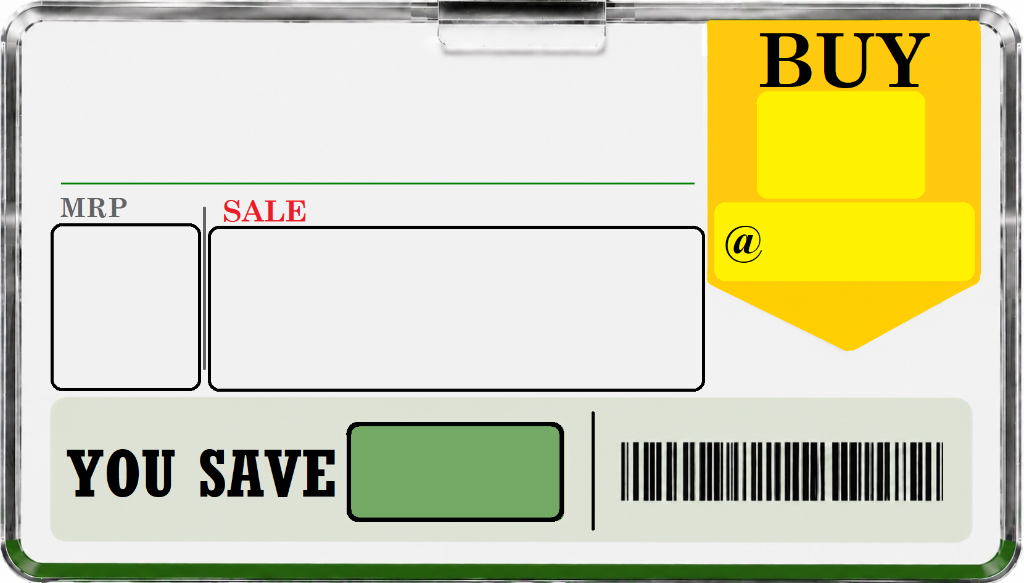
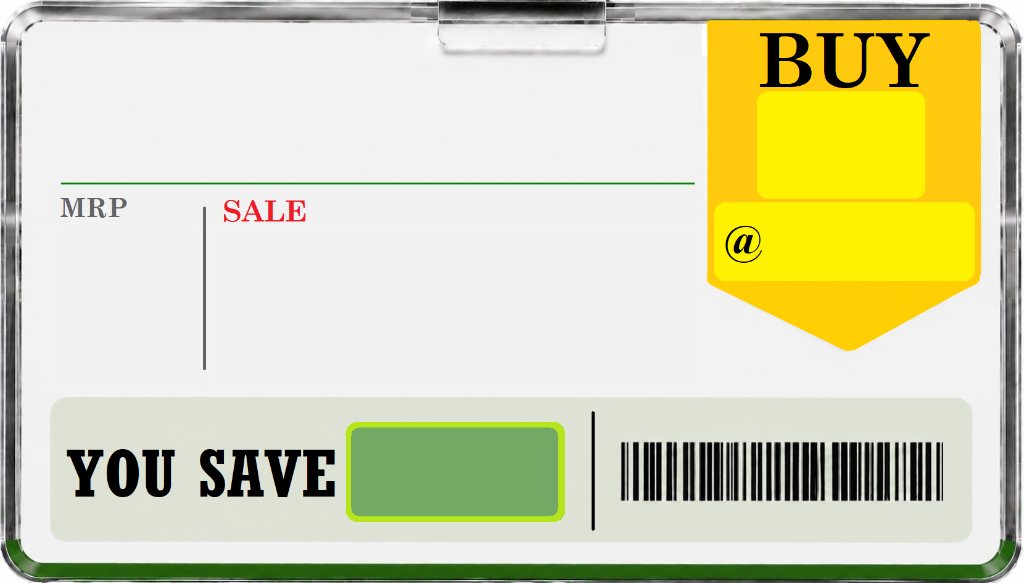
Update: Replace template PNG graphics with latest user uploaded template artwork (Build 202608151416)

Changed region(s): [[0.0312, 0.3705, 0.6875, 0.6792], [0.3125, 0.7101, 0.5625, 0.8954]]

diff --git a/frontend/customer/js/build-env.js b/frontend/customer/js/build-env.js
@@ -1,10 +1,10 @@
 // Automatically generated build metadata
 window.APP_BUILD = {
   version: "0.1.0",
-  build: "202608151315",
-  commit: "2403413",
+  build: "202608151416",
+  commit: "fed7ad0",
   branch: "main",
-  buildTime: "2026-08-15T13:15:06.170Z",
+  buildTime: "2026-08-15T14:16:47.927Z",
   environment: "production",
   serviceWorkerEnabled: true
 };

diff --git a/frontend/customer/index.html b/frontend/customer/index.html
@@ -11,7 +11,7 @@
   <!-- html5-qrcode library for barcode camera decoding -->
   <script src="js/libs/html5-qrcode.min.js"></script>
   <script src="js/scanner.js"></script>
-  <script>window.HTML_BUILD = "202608151315";</script>
+  <script>window.HTML_BUILD = "202608151416";</script>
 </head>
 <body>
   <div class="app-shell">

diff --git a/frontend/customer/sw.js b/frontend/customer/sw.js
@@ -1,4 +1,4 @@
-const CACHE_NAME = '78pricecheck-202608151315';
+const CACHE_NAME = '78pricecheck-202608151416';
 const ASSETS_TO_CACHE = [
   './',
   './index.html',
